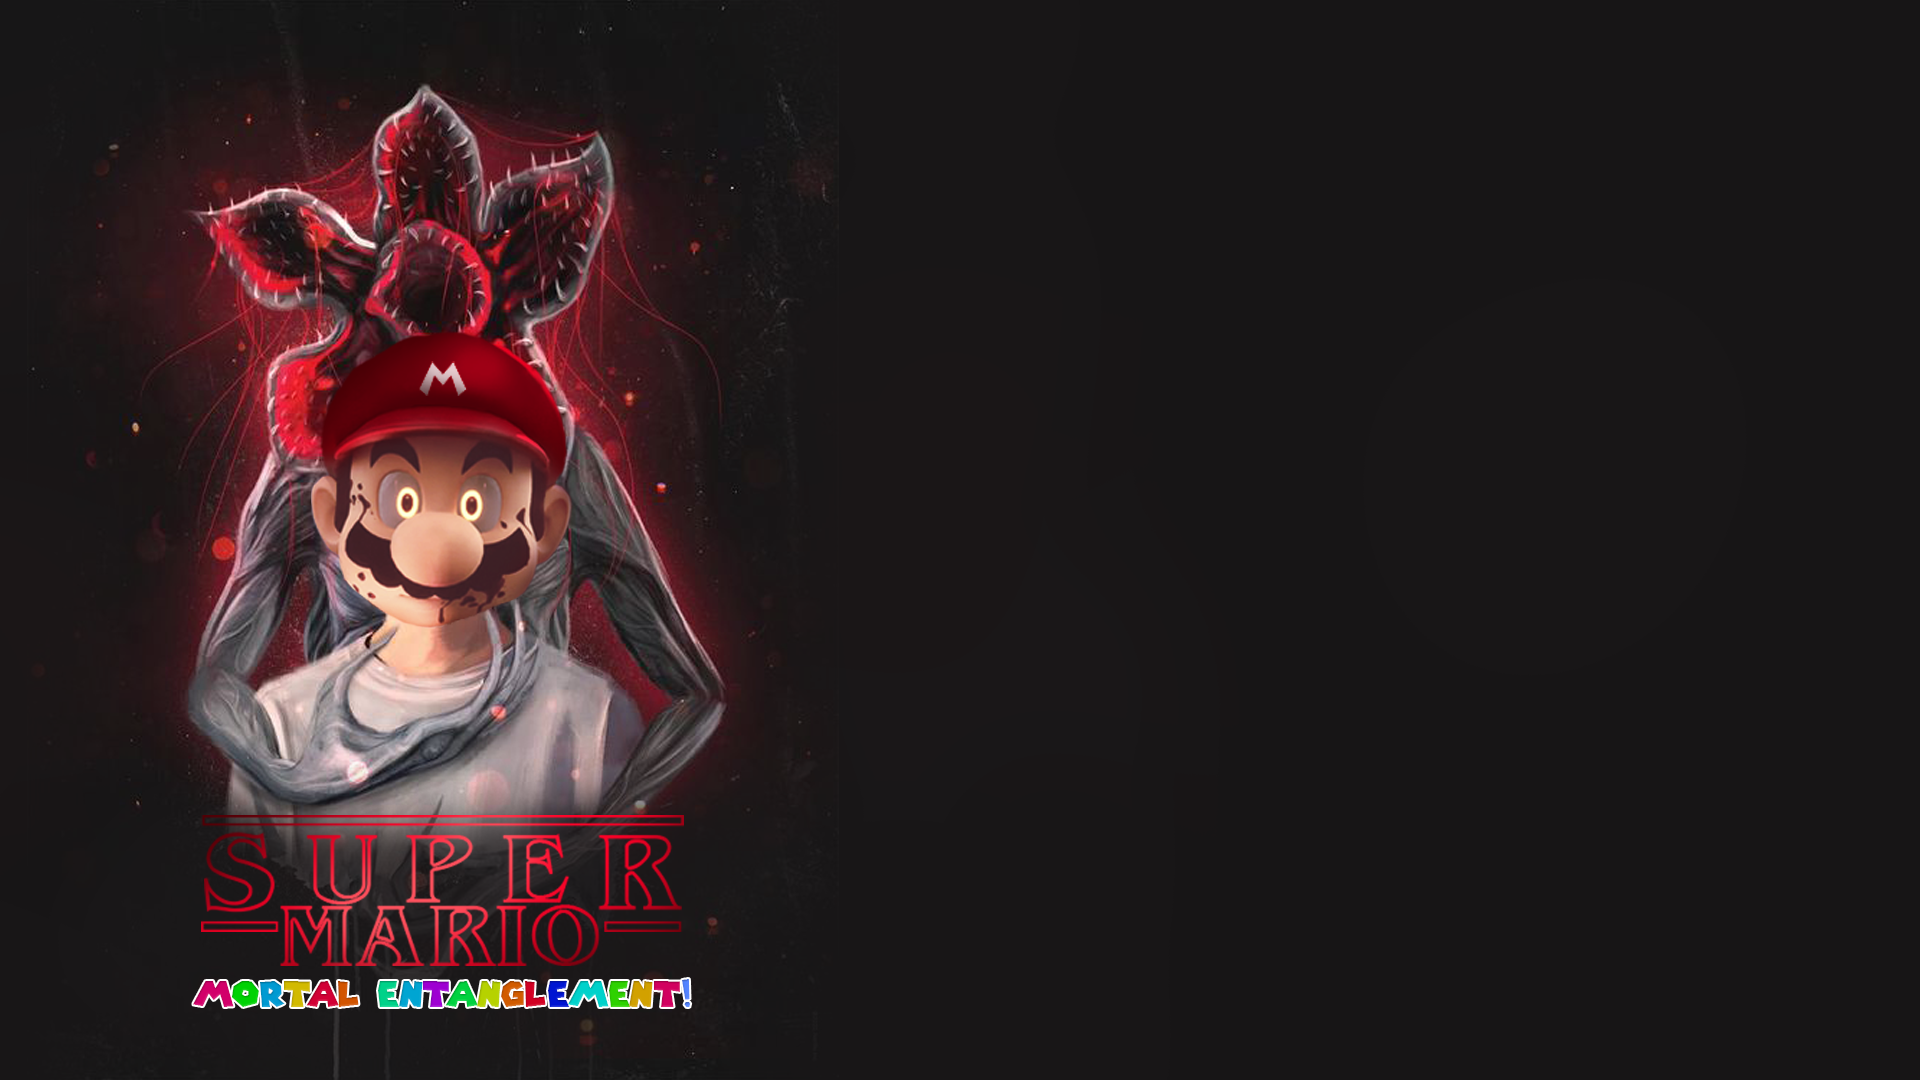
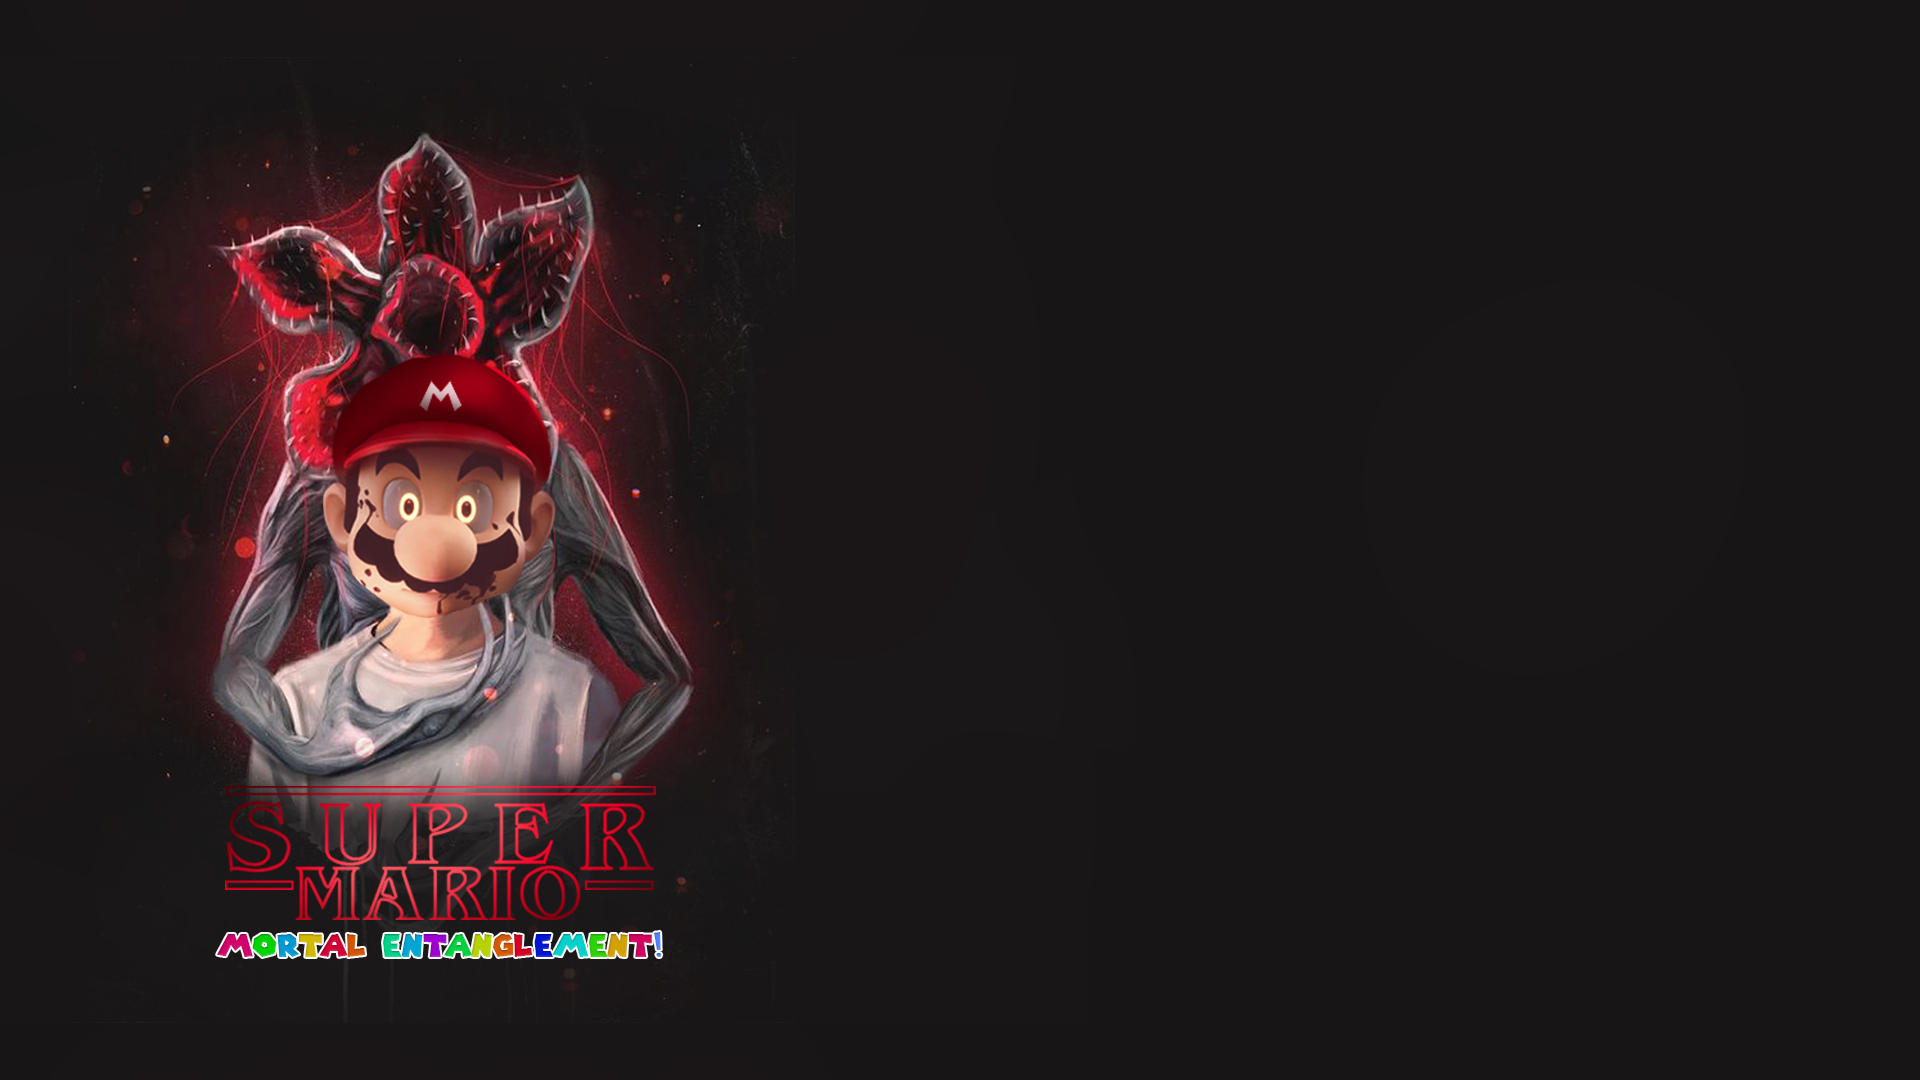
Fixed bump box

Changed region(s): [[0.0938, 0.0611, 0.375, 0.9472], [0.3438, 0.3056, 0.375, 0.3361], [0.125, 0.0917, 0.1562, 0.1222]]

diff --git a/templates/index.html b/templates/index.html
@@ -30,41 +30,14 @@ ines (98 sloc) 3.88 KB
     </div>
   </nav>
   <div class="col-lg-12" id="container">
-    <section class="row" id="page">
-      <div class="col-4 offset-4" id="parent-sketch-holder">
-        <div id="sketch-holder"></div>
-      </div>
-    </section>
     <div class="row">
-      <div class="col-12 ">
-        <!-- <div class="progress darkMode">
-          <div class="progress-bar neon-bg" role="progressbar" style="width: 75%" aria-valuenow="75" aria-valuemin="0"
-            aria-valuemax="100"></div>
-        </div> -->
+      <div class="col-md-6"></div>
+      <div class="col-md-6">
+        <button type="button" class="btn btn-primary start-mario-btn btn-block" data-dismiss="modal">Start the
+          game</button>
       </div>
-      <!-- <div class="row">
-        <div class="col-4 offset-4 messages">
-          <div class="neon-text text-center msg-5 invisible">
-            END!
-          </div>
-          <div class="neon-text text-center msg-0 invisible">
-            READY!
-          </div>
-          <div class="neon-text text-center msg-1 invisible">
-            3
-          </div>
-          <div class="neon-text text-center msg-2 invisible">
-            2
-          </div>
-          <div class="neon-text text-center msg-3 invisible">
-            1
-          </div>
-          <div class="neon-text text-center msg-4 invisible">
-            GO!
-          </div>
-        </div>
-      </div> -->
     </div>
+
   </div>
   <div id="myModal" class="modal" tabindex="-1" role="dialog">
     <div class="modal-dialog" role="document">

diff --git a/js/main.js b/js/main.js
@@ -1,28 +1,28 @@
 $(document).ready(function () {
   console.log("ready!");
-  var audio = new Audio('sng/song.mp3')
-  audio.play();
-  $('#myModal').modal({
-    show: true
-  })
+  // var audio = new Audio('sng/song.mp3')
+  // audio.play();
+  // $('#myModal').modal({
+  //   show: true
+  // })
+  // $(".start-mario-btn").click(function () {
+  //   setTimeout(function () {
+  //     console.log("mario go");
+  //     location.href = "/mario"
+  //     hide(4);
+  //     // var audio = new Audio('sng/song.mp3')
+  //     // audio.play();
+  //   }, 5 * 500);
   $(".start-mario-btn").click(function () {
-    setTimeout(function () {
-      console.log("mario go");
-      location.href = "/mario"
-      hide(4);
-      // var audio = new Audio('sng/song.mp3')
-      // audio.play();
-    }, 5 * 500);
-    $(".start-demogorgon-btn").click(function () {
-      setTimeout(function () {
-        location.href = "/demogorgon"
-        console.log("demogorgon go");
-        hide(4);
-        // var audio = new Audio('sng/song.mp3')
-        // audio.play();
-      }, 5 * 500);
-    });
+    location.href = "/demogorgon"
+    //     setTimeout(function () {
+    //       console.log("demogorgon go");
+    //       hide(4);
+    //       // var audio = new Audio('sng/song.mp3')
+    //       // audio.play();
+    //     }, 5 * 500);
   });
+  // });
 
   // function getBobData() {
   //   console.log("Start - getBobData");

diff --git a/js/game.js b/js/game.js
@@ -102,6 +102,14 @@ const levelConf = {
   height: 16,
   pos: vec2(0, 0),
   // define each object as a list of components
+  "O": () => [
+    sprite("emptyBox"),
+    area(),
+    solid(),
+    bump(),
+    origin("bot"),
+    'emptyBox'
+  ],
   "=": () => [
     sprite("ground"),
     area(),
@@ -190,6 +198,14 @@ const levelConf = {
     bump(150, 20, false),
     origin("bot"),
     "playerMario"
+  ],
+  "@": () => [
+    sprite("emptyBox-ud"),
+    area(),
+    solid(),
+    bump(),
+    origin("bot"),
+    'emptyBox'
   ],
   "#": () => [
     sprite("ground-ud"),
@@ -413,7 +429,7 @@ scene("game", (levelNumber = 0) => {
         }
       var pos = obj.gridPos;
       destroy(obj);
-      var box = level.spawn("!", pos);
+      var box = level.spawn("O", pos);
       box.bump();
     }
   });
@@ -539,7 +555,7 @@ scene("game", (levelNumber = 0) => {
         }
       var pos = obj.gridPos;
       destroy(obj);
-      var box = level.spawn("!", pos);
+      var box = level.spawn("@", pos);
       box.bump();
     }
   });

diff --git a/css/style.css b/css/style.css
@@ -8,9 +8,19 @@ body {
   font-family: myFirstFont;
   font-size: 30px;
 }
+.start-mario-btn {
+  margin-top: 30%;
+}
+
+.container {
+  height: 100%;
+  display: flex;
+  justify-content: center;
+  align-items: center;
+}
 
 #container {
-  background-image: url("../img/background.jpg");
+  background-image: url("../img/background-left.png");
   height: 100%;
   background-position: center;
   background-repeat: no-repeat;
